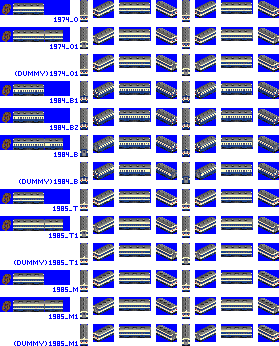
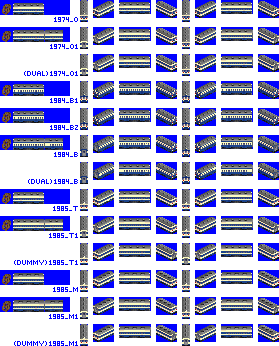
2025.02.12 / 1.61 / #633

diff --git a/README.md b/README.md
@@ -8,7 +8,7 @@
 [Github release 페이지](https://github.com/DTS-NewGRF/DTS/releases)와 인게임 온라인 컨텐츠에서 다운받을 수 있습니다.<br>
 
 ## 최근 등록 프리 릴리즈
-[1.61] 2025.02.09 <br>
+[1.61] 2025.02.12 <br>
 [이슈 외 작업]
 * 구매창 변경방식 변경
   * [DTS/?량] 열차이름 -> [?량] 열차이름
@@ -25,6 +25,7 @@
 * [버그] 고속수화물차의 속력 제한이 적용되어 있지 않음 (#627)
 * [열차변경] MEL-150 그래픽 변경 및 편성 수정 (#630)
 * [열차변경] 디젤액압동차 편운전대 차량 수정 및 듀얼헤드 적용 (#631)
+  * [버그] 듀얼헤드가 적용된 디젤액압동차의 후부차량 그래픽 방향이 잘못된 현상 (#633)
 
 ## 최근 등록 릴리즈
 ```

diff --git a/docs/changelog.md b/docs/changelog.md
@@ -2,7 +2,7 @@
 [추가]
 - [지하철] IMR-001 가상지하철 급행 / 6, 8량
 - [소화물차] 비둘기호 소화물차
-- [디젤액압동차] 편순전대 차량 2량
+- [디젤액압동차] 편운전대 차량 2량
 [변경]
 - [표기방식] [DTS/단량] & [DTS] => 열차이름만 표기
 - [표기방식] [DTS/?량] => [?량]
